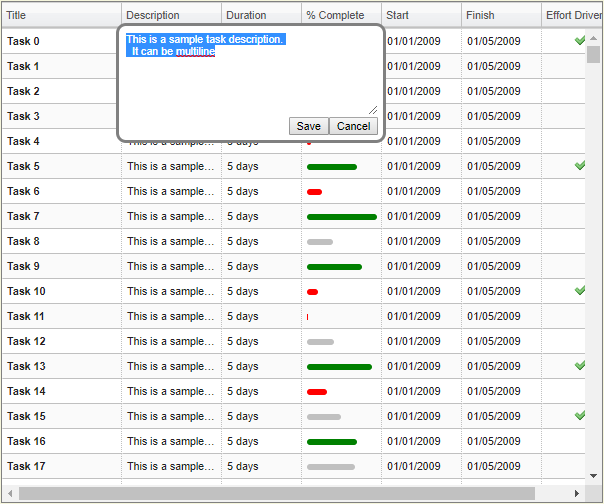
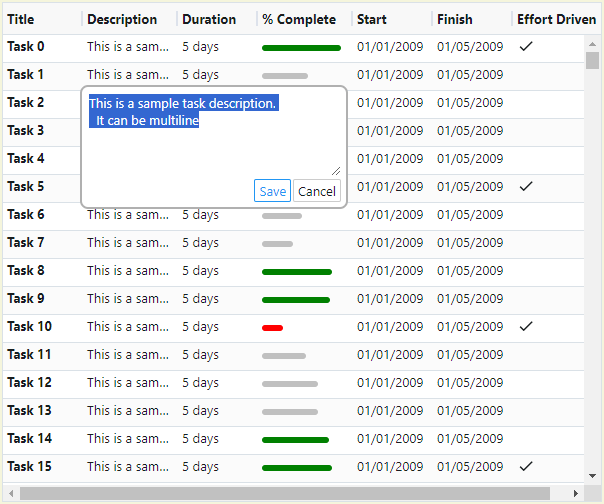
chore: update SlickGrid and Angular-Slickgrid details - SlickGrid is now native JavaScript and no longer requires jQuery/jQueryUI - UI changed a lot too, so I updated all SlickGrid & Angular-Slickgrid - note that I am a maintainer/contributor in both projects

diff --git a/source/projects/slickgrid.md b/source/projects/slickgrid.md
@@ -6,13 +6,14 @@ examples: http://6pac.github.io/SlickGrid/examples/example4-model.html
 license: MIT
 author: Michael Leibman/Ben McIntyre
 authorurl: http://slickgrid.net/History.html
-description: SlickGrid is a fully open-source, JavaScript, client-side grid control, based on jQuery and jQueryUI and compatible with Bootstrap.
+description: SlickGrid is a fully open-source, native JavaScript, client-side grid control, and compatible with any UI frameworks like Bootstrap.
 ---
 
-SlickGrid is a fully open-source, JavaScript, client-side grid control, 
-based on jQuery and jQueryUI and compatible with Bootstrap.
-The grid is designed to take an external component as a datasource, 
-and that means SlickGrid should be compatible with a wide range of 
+SlickGrid is a fully open-source, native JavaScript, client-side grid control, 
+using native browser code (originally, but no longer, based on jQuery and jQueryUI) 
+and compatible with any UI libraries like Bootstrap.
+The grid is designed to take an external component as a datasource,
+and that means SlickGrid should be compatible with a wide range of
 modern data-centric frameworks.
 
 #### Features Overview
@@ -31,6 +32,9 @@ modern data-centric frameworks.
 * Advanced detached & multi-field editors with undo/redo support.
 * "GlobalEditorLock" to manage concurrent edits in cases where multiple Views on a page can edit the same data.
 * Support for millions of rows
+* Composite Editor Modal
+* Custom Tooltips
+* Context Menu / Cell Menu
 
 #### Preview
 
@@ -48,3 +52,7 @@ modern data-centric frameworks.
 ![Slickgrid row selection with checkbox](/images/libraries/slickgrid/row-selection-with-checkbox.png "Slickgrid row selection with checkbox")
 ##### Tree grid
 ![Slickgrid tree grid](/images/libraries/slickgrid/tree-grid.png "Slickgrid tree grid")
+##### Row detail
+![Slickgrid row detail](/images/libraries/slickgrid/row-detail.png "Slickgrid row detail")
+##### Context Menu / Cell Menu
+![Slickgrid context cell menus](/images/libraries/slickgrid/context-menu.png "Slickgrid context cell menus")

diff --git a/source/projects/angular-slickgrid.md b/source/projects/angular-slickgrid.md
@@ -50,6 +50,10 @@ Take a look at the multiple [demos](https://ghiscoding.github.io/Angular-Slickgr
 * Custom Column Filters with Angular Component
 * Custom Cell Editors with Angular Component
 * Custom AsyncPostRender with Angular Component
+* Composite Editor Modal
+* Custom Tooltips
+* Context Menu / Cell Menu
+* Tree Data (parent/child or hierarchical dataset)
 
 #### Preview:
 
@@ -77,3 +81,9 @@ Screenshots from the demo app with the `Bootstrap` theme (that is the only avail
 ###### Comes with OData & GraphQL support (you can implement custom too)
 
 ![Slickgrid Server Side](/images/libraries/angular-slickgrid/pagination.png)
+
+##### Composite Editor
+![Slickgrid composite editor](/images/libraries/angular-slickgrid/composite-editor.png "Slickgrid composite editor")
+
+##### Tree Data (parent/child or hierarchical dataset)
+![Slickgrid tree data](/images/libraries/angular-slickgrid/tree-data.png "Slickgrid tree data")
